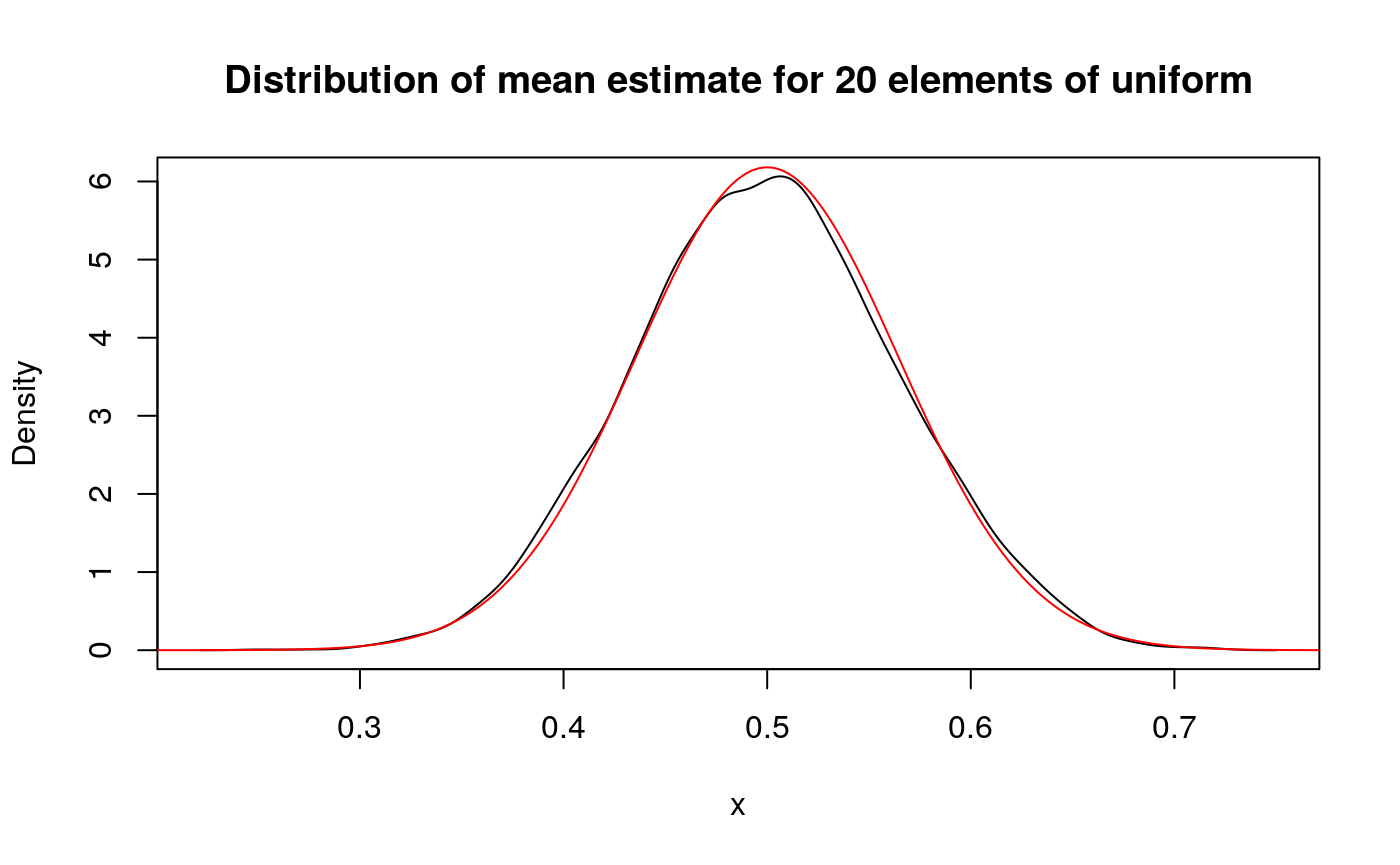
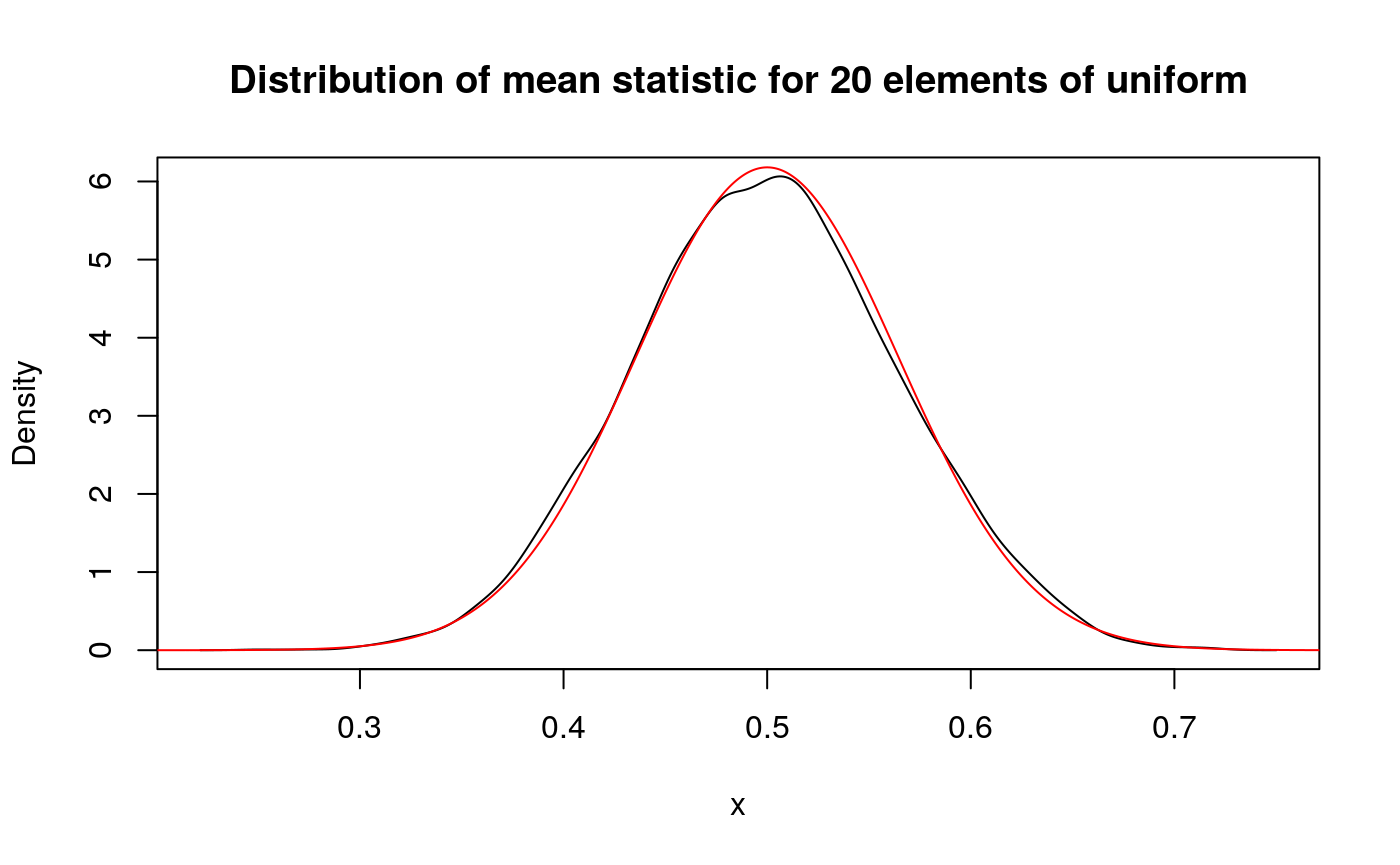
Update pkgdown site.

Changed region(s): [[0.1536, 0.0624, 0.8907, 0.1249]]

diff --git a/docs/reference/form_estimate.html b/docs/reference/form_estimate.html
@@ -38,7 +38,7 @@
   <script src="../extra.js"></script>
 
 <meta property="og:title" content="Create a pdqr-function for distribution of sample estimate — form_estimate" />
-<meta property="og:description" content="Based on pdqr-function, estimate function, and sample size describe the
+<meta property="og:description" content="Based on pdqr-function, statistic function, and sample size describe the
 distribution of sample estimate. This might be useful for statistical
 inference." />
 <meta name="twitter:card" content="summary" />
@@ -139,12 +139,12 @@ inference." />
     </div>
 
     <div class="ref-description">
-    <p>Based on pdqr-function, estimate function, and sample size describe the
+    <p>Based on pdqr-function, statistic function, and sample size describe the
 distribution of sample estimate. This might be useful for statistical
 inference.</p>
     </div>
 
-    <pre class="usage"><code class = "r"><span class='fu'>form_estimate</span>(<span class='no'>f</span>, <span class='no'>estimate</span>, <span class='no'>sample_size</span>, <span class='no'>...</span>, <span class='kw'>n_sample</span> <span class='kw'>=</span> <span class='fl'>10000</span>,
+    <pre class="usage"><code class = "r"><span class='fu'>form_estimate</span>(<span class='no'>f</span>, <span class='no'>stat</span>, <span class='no'>sample_size</span>, <span class='no'>...</span>, <span class='kw'>n_sample</span> <span class='kw'>=</span> <span class='fl'>10000</span>,
   <span class='kw'>args_new</span> <span class='kw'>=</span> <span class='fu'><a href='https://rdrr.io/r/base/list.html'>list</a></span>())</code></pre>
 
     <h2 class="hasAnchor" id="arguments"><a class="anchor" href="#arguments"></a>Arguments</h2>
@@ -155,8 +155,8 @@ inference.</p>
       <td><p>A pdqr-function.</p></td>
     </tr>
     <tr>
-      <th>estimate</th>
-      <td><p>Estimate function. Should be able to accept numeric vector of
+      <th>stat</th>
+      <td><p>Statistic function. Should be able to accept numeric vector of
 size <code>sample_size</code> and return single numeric or logical output.</p></td>
     </tr>
     <tr>
@@ -166,7 +166,7 @@ is needed.</p></td>
     </tr>
     <tr>
       <th>...</th>
-      <td><p>Other arguments for <code>estimate</code>.</p></td>
+      <td><p>Other arguments for <code>stat</code>.</p></td>
     </tr>
     <tr>
       <th>n_sample</th>
@@ -188,7 +188,7 @@ control <code><a href='https://rdrr.io/r/stats/density.html'>density()</a></code
 
     <p>General idea is to create a sample from target distribution by
 generating <code>n_sample</code> samples of size <code>sample_size</code> and compute for each of
-them its estimate by calling input <code>estimate</code> function. If created sample is
+them its estimate by calling input <code>stat</code> function. If created sample is
 logical, <strong>boolean</strong> pdqr-function (type "discrete" with elements being
 exactly 0 and 1) is created with probability of being true estimated as share
 of <code>TRUE</code> values (after removing possible <code>NA</code>). If sample is numeric, it is
@@ -197,7 +197,7 @@ used as input to <code>new_*()</code> of appropriate class with <code>type</code
 <p><strong>Notes</strong>:</p><ul>
 <li><p>This function may be very time consuming for large values of <code>n_sample</code> and
 <code>sample_size</code>, as total of <code>n_sample*sample_size</code> numbers are generated and
-<code>estimate</code> function is called <code>n_sample</code> times.</p></li>
+<code>stat</code> function is called <code>n_sample</code> times.</p></li>
 <li><p>Output distribution might have a bias compared to true distribution of
 sample estimate. One useful technique for bias correction: compute mean value
 of estimate using big <code>sample_size</code> (with <code><a href='https://rdrr.io/r/base/mean.html'>mean(as_r(f)(sample_size))</a></code>) and
@@ -219,31 +219,31 @@ then recenter distribution to actually have that as a mean.</p></li>
 <span class='co'># Type "discrete"</span>
 <span class='no'>d_dis</span> <span class='kw'>&lt;-</span> <span class='fu'><a href='new-pdqr.html'>new_d</a></span>(<span class='fu'><a href='https://rdrr.io/r/base/data.frame.html'>data.frame</a></span>(<span class='kw'>x</span> <span class='kw'>=</span> <span class='fl'>1</span>:<span class='fl'>4</span>, <span class='kw'>prob</span> <span class='kw'>=</span> <span class='fl'>1</span>:<span class='fl'>4</span>/<span class='fl'>10</span>), <span class='st'>"discrete"</span>)
   <span class='co'># Estimate of distribution of mean</span>
-<span class='fu'>form_estimate</span>(<span class='no'>d_dis</span>, <span class='kw'>estimate</span> <span class='kw'>=</span> <span class='no'>mean</span>, <span class='kw'>sample_size</span> <span class='kw'>=</span> <span class='fl'>10</span>)
+<span class='fu'>form_estimate</span>(<span class='no'>d_dis</span>, <span class='kw'>stat</span> <span class='kw'>=</span> <span class='no'>mean</span>, <span class='kw'>sample_size</span> <span class='kw'>=</span> <span class='fl'>10</span>)
   <span class='co'># To change type of output, supply it in `args_new`</span>
 <span class='fu'>form_estimate</span>(
-  <span class='no'>d_dis</span>, <span class='kw'>estimate</span> <span class='kw'>=</span> <span class='no'>mean</span>, <span class='kw'>sample_size</span> <span class='kw'>=</span> <span class='fl'>10</span>,
+  <span class='no'>d_dis</span>, <span class='kw'>stat</span> <span class='kw'>=</span> <span class='no'>mean</span>, <span class='kw'>sample_size</span> <span class='kw'>=</span> <span class='fl'>10</span>,
   <span class='kw'>args_new</span> <span class='kw'>=</span> <span class='fu'><a href='https://rdrr.io/r/base/list.html'>list</a></span>(<span class='kw'>type</span> <span class='kw'>=</span> <span class='st'>"continuous"</span>)
 )
 
 <span class='co'># Type "continuous"</span>
 <span class='no'>d_unif</span> <span class='kw'>&lt;-</span> <span class='fu'><a href='as-pdqr.html'>as_d</a></span>(<span class='no'>dunif</span>)
-  <span class='co'># Supply extra named arguments for `estimate` in `...`</span>
-<span class='fu'><a href='https://rdrr.io/r/graphics/plot.html'>plot</a></span>(<span class='fu'>form_estimate</span>(<span class='no'>d_unif</span>, <span class='kw'>estimate</span> <span class='kw'>=</span> <span class='no'>mean</span>, <span class='kw'>sample_size</span> <span class='kw'>=</span> <span class='fl'>10</span>, <span class='kw'>trim</span> <span class='kw'>=</span> <span class='fl'>0.1</span>))
+  <span class='co'># Supply extra named arguments for `stat` in `...`</span>
+<span class='fu'><a href='https://rdrr.io/r/graphics/plot.html'>plot</a></span>(<span class='fu'>form_estimate</span>(<span class='no'>d_unif</span>, <span class='kw'>stat</span> <span class='kw'>=</span> <span class='no'>mean</span>, <span class='kw'>sample_size</span> <span class='kw'>=</span> <span class='fl'>10</span>, <span class='kw'>trim</span> <span class='kw'>=</span> <span class='fl'>0.1</span>))
 <span class='fu'><a href='https://rdrr.io/r/graphics/lines.html'>lines</a></span>(
-  <span class='fu'>form_estimate</span>(<span class='no'>d_unif</span>, <span class='kw'>estimate</span> <span class='kw'>=</span> <span class='no'>mean</span>, <span class='kw'>sample_size</span> <span class='kw'>=</span> <span class='fl'>10</span>, <span class='kw'>trim</span> <span class='kw'>=</span> <span class='fl'>0.3</span>),
+  <span class='fu'>form_estimate</span>(<span class='no'>d_unif</span>, <span class='kw'>stat</span> <span class='kw'>=</span> <span class='no'>mean</span>, <span class='kw'>sample_size</span> <span class='kw'>=</span> <span class='fl'>10</span>, <span class='kw'>trim</span> <span class='kw'>=</span> <span class='fl'>0.3</span>),
   <span class='kw'>col</span> <span class='kw'>=</span> <span class='st'>"red"</span>
 )
 <span class='fu'><a href='https://rdrr.io/r/graphics/lines.html'>lines</a></span>(
-  <span class='fu'>form_estimate</span>(<span class='no'>d_unif</span>, <span class='kw'>estimate</span> <span class='kw'>=</span> <span class='no'>median</span>, <span class='kw'>sample_size</span> <span class='kw'>=</span> <span class='fl'>10</span>),
+  <span class='fu'>form_estimate</span>(<span class='no'>d_unif</span>, <span class='kw'>stat</span> <span class='kw'>=</span> <span class='no'>median</span>, <span class='kw'>sample_size</span> <span class='kw'>=</span> <span class='fl'>10</span>),
   <span class='kw'>col</span> <span class='kw'>=</span> <span class='st'>"blue"</span>
 )
 
-<span class='co'># Estimate can return single logical value</span>
+<span class='co'># Statistic can return single logical value</span>
 <span class='no'>d_norm</span> <span class='kw'>&lt;-</span> <span class='fu'><a href='as-pdqr.html'>as_d</a></span>(<span class='no'>dnorm</span>)
 <span class='no'>all_positive</span> <span class='kw'>&lt;-</span> <span class='kw'>function</span>(<span class='no'>x</span>) {<span class='fu'><a href='https://rdrr.io/r/base/all.html'>all</a></span>(<span class='no'>x</span> <span class='kw'>&gt;</span> <span class='fl'>0</span>)}
   <span class='co'># Probability of being true should be around 0.5^5</span>
-<span class='fu'>form_estimate</span>(<span class='no'>d_norm</span>, <span class='kw'>estimate</span> <span class='kw'>=</span> <span class='no'>all_positive</span>, <span class='kw'>sample_size</span> <span class='kw'>=</span> <span class='fl'>5</span>)
+<span class='fu'>form_estimate</span>(<span class='no'>d_norm</span>, <span class='kw'>stat</span> <span class='kw'>=</span> <span class='no'>all_positive</span>, <span class='kw'>sample_size</span> <span class='kw'>=</span> <span class='fl'>5</span>)
 }</div></code></pre>
   </div>
   <div class="col-md-3 hidden-xs hidden-sm" id="sidebar">
@@ -266,7 +266,7 @@ then recenter distribution to actually have that as a mean.</p></li>
 </div>
 
 <div class="pkgdown">
-  <p>Site built with <a href="https://pkgdown.r-lib.org/">pkgdown</a> 1.4.0.</p>
+  <p>Site built with <a href="https://pkgdown.r-lib.org/">pkgdown</a> 1.4.1.</p>
 </div>
 
       </footer>

diff --git a/docs/articles/pdqr-03-transform.html b/docs/articles/pdqr-03-transform.html
@@ -275,12 +275,12 @@
 <h3 class="hasAnchor">
 <a href="#form_estimate" class="anchor"></a><code>form_estimate()</code>
 </h3>
-<p><code><a href="../reference/form_estimate.html">form_estimate()</a></code> computes distribution of sample estimate. For example, what distribution would have mean of 20 sample elements from uniform distribution? To answer this question, <code><a href="../reference/form_estimate.html">form_estimate()</a></code> would use simulation. One randomly generate element from target distribution is achieved by generating 20 elements from input one and computing desired estimate. This is repeated many times with calling one of <code>new_*()</code> functions on resulted sample from target distribution. <strong>Note</strong> that this algorithm usually quite time consuming.</p>
-<div class="sourceCode" id="cb11"><pre class="sourceCode r"><code class="sourceCode r"><a class="sourceLine" id="cb11-1" data-line-number="1">(unif_mean &lt;-<span class="st"> </span><span class="kw"><a href="../reference/form_estimate.html">form_estimate</a></span>(d_unif, <span class="dt">estimate =</span> mean, <span class="dt">sample_size =</span> <span class="dv">20</span>))</a>
+<p><code><a href="../reference/form_estimate.html">form_estimate()</a></code> computes distribution of sample estimate. For example, what distribution would have mean of 20 sample elements from uniform distribution? To answer this question, <code><a href="../reference/form_estimate.html">form_estimate()</a></code> would use simulation. One randomly generate element from target distribution is achieved by generating 20 elements from input one and computing desired statistic. This is repeated many times with calling one of <code>new_*()</code> functions on resulted sample from target distribution. <strong>Note</strong> that this algorithm usually quite time consuming.</p>
+<div class="sourceCode" id="cb11"><pre class="sourceCode r"><code class="sourceCode r"><a class="sourceLine" id="cb11-1" data-line-number="1">(unif_mean &lt;-<span class="st"> </span><span class="kw"><a href="../reference/form_estimate.html">form_estimate</a></span>(d_unif, <span class="dt">stat =</span> mean, <span class="dt">sample_size =</span> <span class="dv">20</span>))</a>
 <a class="sourceLine" id="cb11-2" data-line-number="2"><span class="co">#&gt; Density function of continuous type</span></a>
 <a class="sourceLine" id="cb11-3" data-line-number="3"><span class="co">#&gt; Support: ~[0.22168, 0.75006] (511 intervals)</span></a>
 <a class="sourceLine" id="cb11-4" data-line-number="4"><span class="kw"><a href="https://rdrr.io/r/graphics/plot.html">plot</a></span>(</a>
-<a class="sourceLine" id="cb11-5" data-line-number="5">  unif_mean, <span class="dt">main =</span> <span class="st">"Distribution of mean estimate for 20 elements of uniform"</span></a>
+<a class="sourceLine" id="cb11-5" data-line-number="5">  unif_mean, <span class="dt">main =</span> <span class="st">"Distribution of mean statistic for 20 elements of uniform"</span></a>
 <a class="sourceLine" id="cb11-6" data-line-number="6">)</a>
 <a class="sourceLine" id="cb11-7" data-line-number="7"></a>
 <a class="sourceLine" id="cb11-8" data-line-number="8">  <span class="co"># Approximated normal output</span></a>
@@ -291,13 +291,13 @@
 <a class="sourceLine" id="cb12-3" data-line-number="3"><span class="co"># property" of `density()` function used in `new_*()`, because right edge of</span></a>
 <a class="sourceLine" id="cb12-4" data-line-number="4"><span class="co"># support is more than 1, which is impossible.</span></a>
 <a class="sourceLine" id="cb12-5" data-line-number="5">(unif_quan &lt;-<span class="st"> </span><span class="kw"><a href="../reference/form_estimate.html">form_estimate</a></span>(</a>
-<a class="sourceLine" id="cb12-6" data-line-number="6">  d_unif, <span class="dt">estimate =</span> quantile, <span class="dt">sample_size =</span> <span class="dv">20</span>, <span class="dt">probs =</span> <span class="fl">0.75</span></a>
+<a class="sourceLine" id="cb12-6" data-line-number="6">  d_unif, <span class="dt">stat =</span> quantile, <span class="dt">sample_size =</span> <span class="dv">20</span>, <span class="dt">probs =</span> <span class="fl">0.75</span></a>
 <a class="sourceLine" id="cb12-7" data-line-number="7">))</a>
 <a class="sourceLine" id="cb12-8" data-line-number="8"><span class="co">#&gt; Density function of continuous type</span></a>
 <a class="sourceLine" id="cb12-9" data-line-number="9"><span class="co">#&gt; Support: ~[0.25579, 1.01289] (511 intervals)</span></a>
 <a class="sourceLine" id="cb12-10" data-line-number="10"><span class="kw"><a href="https://rdrr.io/r/graphics/plot.html">plot</a></span>(</a>
 <a class="sourceLine" id="cb12-11" data-line-number="11">  unif_quan,</a>
-<a class="sourceLine" id="cb12-12" data-line-number="12">  <span class="dt">main =</span> <span class="st">"Distribution of 75% quantile estimate for 20 elements of uniform"</span></a>
+<a class="sourceLine" id="cb12-12" data-line-number="12">  <span class="dt">main =</span> <span class="st">"Distribution of 75% quantile statistic for 20 elements of uniform"</span></a>
 <a class="sourceLine" id="cb12-13" data-line-number="13">)</a>
 <a class="sourceLine" id="cb12-14" data-line-number="14"></a>
 <a class="sourceLine" id="cb12-15" data-line-number="15">  <span class="co"># "Correct" distribution of 15th order statistic of the uniform distribution</span></a>
@@ -380,7 +380,7 @@
 </div>
 
 <div class="pkgdown">
-  <p>Site built with <a href="https://pkgdown.r-lib.org/">pkgdown</a> 1.4.0.</p>
+  <p>Site built with <a href="https://pkgdown.r-lib.org/">pkgdown</a> 1.4.1.</p>
 </div>
 
       </footer>

diff --git a/docs/index.html b/docs/index.html
@@ -140,7 +140,7 @@
 <a href="#installation" class="anchor"></a>Installation</h2>
 <p>‘pdqr’ is not yet on CRAN. You can install the development version from <a href="https://github.com/">GitHub</a> with:</p>
 <div class="sourceCode" id="cb1"><pre class="sourceCode r"><code class="sourceCode r"><a class="sourceLine" id="cb1-1" data-line-number="1"><span class="co"># install.packages("devtools")</span></a>
-<a class="sourceLine" id="cb1-2" data-line-number="2">devtools<span class="op">::</span><span class="kw"><a href="https://rdrr.io/pkg/devtools/man/reexports.html">install_github</a></span>(<span class="st">"echasnovski/pdqr"</span>)</a></code></pre></div>
+<a class="sourceLine" id="cb1-2" data-line-number="2">devtools<span class="op">::</span><span class="kw"><a href="https://rdrr.io/pkg/devtools/man/remote-reexports.html">install_github</a></span>(<span class="st">"echasnovski/pdqr"</span>)</a></code></pre></div>
 </div>
 <div id="quick-examples" class="section level2">
 <h2 class="hasAnchor">
@@ -169,7 +169,7 @@
 <a class="sourceLine" id="cb4-2" data-line-number="2">mpg_vs0 &lt;-<span class="st"> </span>mtcars<span class="op">$</span>mpg[mtcars<span class="op">$</span>vs <span class="op">==</span><span class="st"> </span><span class="dv">0</span>]</a>
 <a class="sourceLine" id="cb4-3" data-line-number="3">d_vs0 &lt;-<span class="st"> </span><span class="kw"><a href="reference/new-pdqr.html">new_d</a></span>(mpg_vs0, <span class="st">"continuous"</span>)</a>
 <a class="sourceLine" id="cb4-4" data-line-number="4">(d_vs0_mean &lt;-<span class="st"> </span><span class="kw"><a href="reference/form_estimate.html">form_estimate</a></span>(</a>
-<a class="sourceLine" id="cb4-5" data-line-number="5">  d_vs0, <span class="dt">estimate =</span> mean, <span class="dt">sample_size =</span> <span class="kw"><a href="https://rdrr.io/r/base/length.html">length</a></span>(mpg_vs0)</a>
+<a class="sourceLine" id="cb4-5" data-line-number="5">  d_vs0, <span class="dt">stat =</span> mean, <span class="dt">sample_size =</span> <span class="kw"><a href="https://rdrr.io/r/base/length.html">length</a></span>(mpg_vs0)</a>
 <a class="sourceLine" id="cb4-6" data-line-number="6">))</a>
 <a class="sourceLine" id="cb4-7" data-line-number="7"><span class="co">#&gt; Density function of continuous type</span></a>
 <a class="sourceLine" id="cb4-8" data-line-number="8"><span class="co">#&gt; Support: ~[12.14822, 20.63362] (511 intervals)</span></a>
@@ -178,7 +178,7 @@
 <a class="sourceLine" id="cb4-11" data-line-number="11">mpg_vs1 &lt;-<span class="st"> </span>mtcars<span class="op">$</span>mpg[mtcars<span class="op">$</span>vs <span class="op">==</span><span class="st"> </span><span class="dv">1</span>]</a>
 <a class="sourceLine" id="cb4-12" data-line-number="12">d_vs1 &lt;-<span class="st"> </span><span class="kw"><a href="reference/new-pdqr.html">new_d</a></span>(mpg_vs1, <span class="st">"continuous"</span>)</a>
 <a class="sourceLine" id="cb4-13" data-line-number="13">(d_vs1_mean &lt;-<span class="st"> </span><span class="kw"><a href="reference/form_estimate.html">form_estimate</a></span>(</a>
-<a class="sourceLine" id="cb4-14" data-line-number="14">  d_vs1, <span class="dt">estimate =</span> mean, <span class="dt">sample_size =</span> <span class="kw"><a href="https://rdrr.io/r/base/length.html">length</a></span>(mpg_vs1)</a>
+<a class="sourceLine" id="cb4-14" data-line-number="14">  d_vs1, <span class="dt">stat =</span> mean, <span class="dt">sample_size =</span> <span class="kw"><a href="https://rdrr.io/r/base/length.html">length</a></span>(mpg_vs1)</a>
 <a class="sourceLine" id="cb4-15" data-line-number="15">))</a>
 <a class="sourceLine" id="cb4-16" data-line-number="16"><span class="co">#&gt; Density function of continuous type</span></a>
 <a class="sourceLine" id="cb4-17" data-line-number="17"><span class="co">#&gt; Support: ~[18.42035, 31.00767] (511 intervals)</span></a>
@@ -649,7 +649,7 @@
 </div>
 
 <div class="pkgdown">
-  <p>Site built with <a href="https://pkgdown.r-lib.org/">pkgdown</a> 1.4.0.</p>
+  <p>Site built with <a href="https://pkgdown.r-lib.org/">pkgdown</a> 1.4.1.</p>
 </div>
 
       </footer>

diff --git a/docs/news/index.html b/docs/news/index.html
@@ -138,6 +138,8 @@
 <a href="#pdqr-development-version" class="anchor"></a>pdqr (development version)</h1>
 <ul>
 <li>
+<code><a href="../reference/form_estimate.html">form_estimate()</a></code> gets argument <code>estimate</code> renamed to <code>stat</code> to avoid possibly confusing word duplication.</li>
+<li>
 <code><a href="../reference/form_retype.html">form_retype()</a></code> gets default value <code>NULL</code> of <code>type</code>, which means taking opposite of input’s type. This usage seems to be the most common.</li>
 <li>
 <code><a href="../reference/form_retype.html">form_retype()</a></code> gets new <strong>default</strong> method “value” that preserves ratio of d-function values at certain “x” points. It is more robust than previous options.</li>
@@ -174,7 +176,7 @@
 </div>
 
 <div class="pkgdown">
-  <p>Site built with <a href="https://pkgdown.r-lib.org/">pkgdown</a> 1.4.0.</p>
+  <p>Site built with <a href="https://pkgdown.r-lib.org/">pkgdown</a> 1.4.1.</p>
 </div>
 
       </footer>

diff --git a/docs/reference/as-pdqr.html b/docs/reference/as-pdqr.html
@@ -404,7 +404,7 @@ some reference function (usually input to <code>as_*()</code> family).</p></div>
 </div>
 
 <div class="pkgdown">
-  <p>Site built with <a href="https://pkgdown.r-lib.org/">pkgdown</a> 1.4.0.</p>
+  <p>Site built with <a href="https://pkgdown.r-lib.org/">pkgdown</a> 1.4.1.</p>
 </div>
 
       </footer>

diff --git a/docs/reference/form_recenter.html b/docs/reference/form_recenter.html
@@ -221,7 +221,7 @@ spread equal to <code>to</code> (center remains the same as in input <code>f</co
 </div>
 
 <div class="pkgdown">
-  <p>Site built with <a href="https://pkgdown.r-lib.org/">pkgdown</a> 1.4.0.</p>
+  <p>Site built with <a href="https://pkgdown.r-lib.org/">pkgdown</a> 1.4.1.</p>
 </div>
 
       </footer>

diff --git a/docs/reference/summ_prob_true.html b/docs/reference/summ_prob_true.html
@@ -201,7 +201,7 @@ with <code>x</code> in <code>x_tbl</code> identical to <code><a href='https://rd
 </div>
 
 <div class="pkgdown">
-  <p>Site built with <a href="https://pkgdown.r-lib.org/">pkgdown</a> 1.4.0.</p>
+  <p>Site built with <a href="https://pkgdown.r-lib.org/">pkgdown</a> 1.4.1.</p>
 </div>
 
       </footer>

diff --git a/docs/reference/meta.html b/docs/reference/meta.html
@@ -334,7 +334,7 @@ function which will increase or decrease granularity of pdqr-function.</p>
 </div>
 
 <div class="pkgdown">
-  <p>Site built with <a href="https://pkgdown.r-lib.org/">pkgdown</a> 1.4.0.</p>
+  <p>Site built with <a href="https://pkgdown.r-lib.org/">pkgdown</a> 1.4.1.</p>
 </div>
 
       </footer>

diff --git a/docs/reference/form_smooth.html b/docs/reference/form_smooth.html
@@ -227,7 +227,7 @@ exactly the same "x" grid as <code>f</code> but "more smooth" nature.</p>
 </div>
 
 <div class="pkgdown">
-  <p>Site built with <a href="https://pkgdown.r-lib.org/">pkgdown</a> 1.4.0.</p>
+  <p>Site built with <a href="https://pkgdown.r-lib.org/">pkgdown</a> 1.4.1.</p>
 </div>
 
       </footer>

diff --git a/docs/reference/new-pdqr.html b/docs/reference/new-pdqr.html
@@ -317,7 +317,7 @@ function passing through "x"-"y" points has total integral of 1. Column
 </div>
 
 <div class="pkgdown">
-  <p>Site built with <a href="https://pkgdown.r-lib.org/">pkgdown</a> 1.4.0.</p>
+  <p>Site built with <a href="https://pkgdown.r-lib.org/">pkgdown</a> 1.4.1.</p>
 </div>
 
       </footer>

diff --git a/docs/reference/summ_classmetric.html b/docs/reference/summ_classmetric.html
@@ -320,7 +320,7 @@ is symmetrical with respect to <code>f</code> and <code>g</code>).</p>
 </div>
 
 <div class="pkgdown">
-  <p>Site built with <a href="https://pkgdown.r-lib.org/">pkgdown</a> 1.4.0.</p>
+  <p>Site built with <a href="https://pkgdown.r-lib.org/">pkgdown</a> 1.4.1.</p>
 </div>
 
       </footer>

diff --git a/docs/reference/form_mix.html b/docs/reference/form_mix.html
@@ -248,7 +248,7 @@ continuously: discontinuities are represented as intervals in
 </div>
 
 <div class="pkgdown">
-  <p>Site built with <a href="https://pkgdown.r-lib.org/">pkgdown</a> 1.4.0.</p>
+  <p>Site built with <a href="https://pkgdown.r-lib.org/">pkgdown</a> 1.4.1.</p>
 </div>
 
       </footer>
